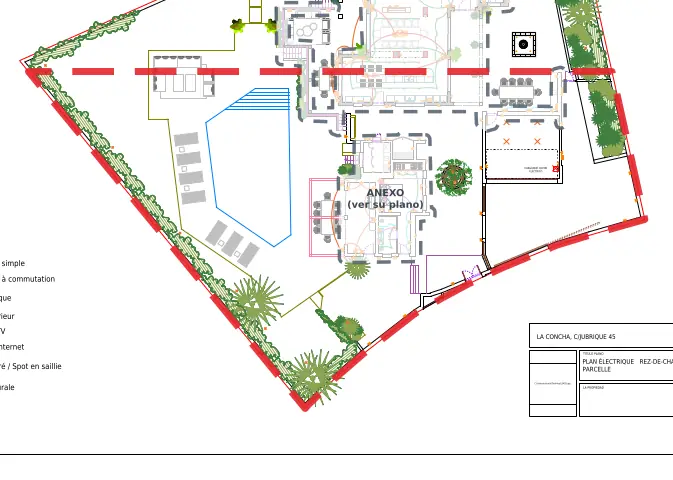
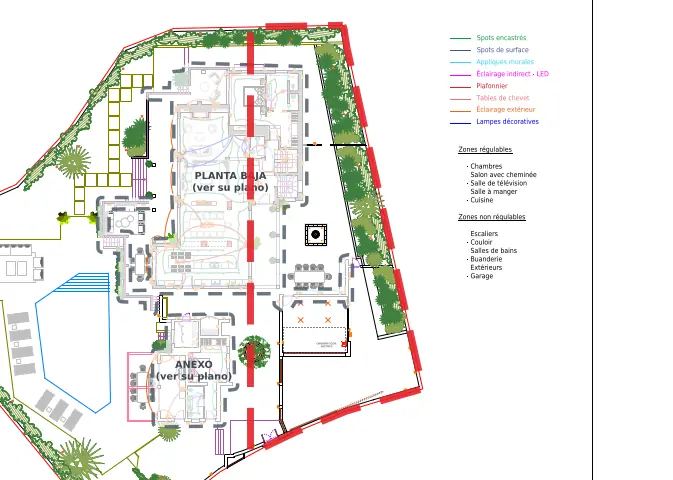
La Concha: exterior partido en vertical (oeste: jardín y piscina; este: garaje, zona de fuego y muros este)
Claude-Session: https://claude.ai/code/session_01Jc8wu4JaYkxdfA7jJdb3wN

diff --git a/la-concha/index.html b/la-concha/index.html
@@ -318,7 +318,7 @@ button.chk:hover{background:var(--hot)}
 </main>
 
 <script>
-const DATA={"cfg":{"kind":"electrica","title":"Visor de planos · La Concha","site":{"name":"La Concha","sub":"C/ Jubrique 45 · Instalación eléctrica"},"obraId":"recQNYGyQ1ju7TomO","progressUrl":"https://formularioiec-bff-iec-294739714316.europe-southwest1.run.app/avance?obra=recQNYGyQ1ju7TomO","writeUrl":"https://formularioiec-bff-iec-294739714316.europe-southwest1.run.app/avance","modo":"escritura","imgV":"20261104","labels":{"l2":"Zona","l2p":"Zonas","a2":"una zona","intro0":"Cada color es una planta. Las zonas reparten cada planta por superficie; el exterior va en dos zonas (norte y sur) y lo ya dibujado en planta baja y anexo se ve atenuado."},"alt0":"Plano general con las hojas de exterior, planta baja, planta alta, sótano y anexo","checklist":[{"id":"tubo","label":"Tubo"},{"id":"caja","label":"Cajas"},{"id":"cable","label":"Cableado"},{"id":"mecanismos","label":"Mecanismos"},{"id":"luminarias","label":"Luminarias"},{"id":"cuadro","label":"Cuadro eléctrico","soloEn":[]}],"checklistProvisional":false},"buildings":[{"id":"EXT","nm":"Exterior","tipo":"EXT","col":2,"poly":[[132.1,432.2],[508.6,432.2],[508.6,165.9],[132.1,165.9]],"lab":[320.4,299.1],"img":"img/edif_EXT.webp"},{"id":"PB","nm":"Planta baja","tipo":"PB","col":1,"poly":[[674.0,322.9],[862.3,322.9],[862.3,189.8],[674.0,189.8]],"lab":[768.2,256.4],"img":"img/edif_PB.webp"},{"id":"PA","nm":"Planta alta","tipo":"PA","col":3,"poly":[[194.0,636.1],[382.2,636.1],[382.2,502.9],[194.0,502.9]],"lab":[288.1,569.5],"img":"img/edif_PA.webp"},{"id":"SOT","nm":"Sótano","tipo":"SOT","col":5,"poly":[[193.6,809.5],[334.8,809.5],[334.8,709.6],[193.6,709.6]],"lab":[264.2,759.5],"img":"img/edif_SOT.webp"},{"id":"ANX","nm":"Anexo","tipo":"ANX","col":4,"poly":[[996.3,292.8],[1090.5,292.8],[1090.5,226.3],[996.3,226.3]],"lab":[1043.4,259.6],"img":"img/edif_ANX.webp"}],"tipos":{"EXT":{"cubs":[{"id":"1","img":"img/EXT_Z1.webp","poly":[[172.7,355.7],[377.4,265.8],[453.4,186.0],[530.1,74.3],[600.3,47.1],[839.0,42.7],[910.9,369.1],[183.9,369.1]],"lab":[527.0,210.9],"m2":496},{"id":"2","img":"img/EXT_Z2.webp","poly":[[665.2,668.3],[601.4,717.6],[565.1,748.9],[528.7,785.4],[183.9,369.1],[910.9,369.1],[951.9,552.0],[842.8,583.5],[773.1,612.1],[731.8,631.7]],"lab":[457.8,520.1],"m2":767}]},"PB":{"cubs":[{"id":"1","img":"img/PB_Z1.webp","poly":[[527.2,41.5],[531.4,20.2],[654.7,24.0],[654.7,199.4],[503.1,199.4],[503.1,167.7],[497.4,163.4],[497.4,102.5],[419.4,101.0],[413.8,89.7],[490.3,89.7],[491.7,44.3]],"lab":[576.1,132.9],"m2":35},{"id":"2","img":"img/PB_Z2.webp","poly":[[654.7,24.0],[856.0,30.2],[856.0,167.7],[654.7,167.7]],"lab":[755.3,98.9],"m2":35},{"id":"3","img":"img/PB_Z3.webp","poly":[[654.7,384.8],[497.5,384.8],[503.1,377.4],[503.1,289.6],[497.4,285.3],[497.4,259.8],[503.1,255.5],[503.1,199.4],[654.7,199.4]],"lab":[578.9,333.5],"m2":35},{"id":"4","img":"img/PB_Z4.webp","poly":[[654.7,308.4],[654.7,167.7],[856.0,167.7],[856.0,308.4]],"lab":[755.3,238.1],"m2":35},{"id":"5","img":"img/PB_Z5.webp","poly":[[792.2,401.5],[792.2,472.4],[654.7,472.4],[654.7,308.4],[856.0,308.4],[856.0,395.9]],"lab":[755.3,352.1],"m2":35},{"id":"6","img":"img/PB_Z6.webp","poly":[[435.0,643.9],[430.8,703.5],[422.3,700.6],[420.9,669.5],[345.7,666.6],[347.2,532.0],[289.1,527.7],[287.6,397.3],[422.3,397.3],[419.4,405.8],[297.6,407.2],[297.6,488.0],[364.2,492.3],[357.1,496.5],[358.5,658.1],[428.0,656.7],[428.0,617.0],[435.0,612.8],[435.0,540.5],[428.0,536.2],[428.0,513.5],[496.0,510.7],[503.1,505.0],[497.5,384.8],[545.5,384.8],[545.5,643.9]],"lab":[490.3,576.6],"m2":35},{"id":"7","img":"img/PB_Z7.webp","poly":[[545.5,643.9],[545.5,384.8],[654.7,384.8],[654.7,643.9]],"lab":[600.1,514.4],"m2":35},{"id":"8","img":"img/PB_Z8.webp","poly":[[792.2,652.4],[972.2,653.9],[973.6,560.3],[984.9,557.5],[984.9,685.0],[980.7,666.6],[829.0,666.6],[816.3,687.9],[800.7,692.1],[786.5,682.2],[785.1,643.9],[654.7,643.9],[654.7,472.4],[792.2,472.4]],"lab":[723.5,602.1],"m2":35}]},"PA":{"cubs":[{"id":"1","img":"img/PA_Z1.webp","poly":[[829.9,84.5],[829.9,199.9],[606.4,199.9],[606.4,70.7],[625.8,70.4],[630.1,80.3]],"lab":[718.2,142.2],"m2":33},{"id":"2","img":"img/PA_Z2.webp","poly":[[469.9,318.6],[469.9,180.9],[535.1,176.7],[539.4,71.8],[606.4,70.7],[606.4,318.6]],"lab":[538.2,249.8],"m2":33},{"id":"3","img":"img/PA_Z3.webp","poly":[[829.9,318.6],[606.4,318.6],[606.4,199.9],[829.9,199.9]],"lab":[718.2,259.3],"m2":33},{"id":"4","img":"img/PA_Z4.webp","poly":[[535.6,508.5],[535.1,465.8],[469.9,460.2],[469.9,318.6],[625.3,318.6],[625.3,508.5]],"lab":[547.6,389.4],"m2":33},{"id":"5","img":"img/PA_Z5.webp","poly":[[761.9,461.6],[686.8,463.0],[686.2,508.5],[625.3,508.5],[625.3,318.6],[829.9,318.6],[829.9,373.7],[764.7,379.4]],"lab":[694.3,420.5],"m2":33},{"id":"6","img":"img/PA_Z6.webp","poly":[[683.9,689.8],[536.5,687.0],[542.2,607.6],[536.5,603.3],[535.6,508.5],[686.2,508.5]],"lab":[610.8,555.9],"m2":33}]},"SOT":{"cubs":[{"id":"1","img":"img/SOT_Z1.webp","poly":[[572.1,351.8],[572.1,47.3],[733.4,47.3],[733.4,351.8]],"lab":[652.7,199.5],"m2":34},{"id":"2","img":"img/SOT_Z2.webp","poly":[[935.5,192.8],[1003.5,192.8],[1003.5,334.5],[960.0,330.7],[958.1,223.0],[833.4,224.9],[832.6,351.8],[733.4,351.8],[733.4,47.3],[837.2,47.3],[842.9,109.6],[931.7,113.4]],"lab":[868.4,207.9],"m2":34},{"id":"3","img":"img/SOT_Z3.webp","poly":[[206.2,334.5],[281.8,328.8],[281.8,253.3],[442.3,253.3],[448.0,213.6],[499.0,213.6],[504.7,47.3],[572.1,47.3],[572.1,358.0],[207.0,358.0]],"lab":[537.0,130.4],"m2":34},{"id":"4","img":"img/SOT_Z4.webp","poly":[[266.6,391.2],[208.1,391.2],[207.0,358.0],[572.1,358.0],[572.1,518.4],[281.8,518.4],[281.8,398.8]],"lab":[426.9,458.6],"m2":34},{"id":"5","img":"img/SOT_Z5.webp","poly":[[831.5,515.9],[652.1,519.7],[646.4,565.0],[584.0,565.0],[582.2,774.8],[572.1,775.1],[572.1,351.8],[832.6,351.8]],"lab":[610.7,542.4],"m2":34},{"id":"6","img":"img/SOT_Z6.webp","poly":[[459.4,744.5],[404.6,740.8],[404.6,623.6],[383.8,617.9],[383.8,576.4],[281.8,570.7],[281.8,518.4],[572.1,518.4],[572.1,775.1],[465.0,778.6]],"lab":[488.3,682.2],"m2":34}]},"ANX":{"cubs":[{"id":"1","img":"img/ANX_Z1.webp","poly":[[877.6,439.7],[460.8,439.7],[459.3,336.9],[535.9,328.4],[538.7,147.0],[748.5,141.3],[757.0,127.1],[768.3,141.3],[870.4,141.3]],"lab":[705.0,237.7],"m2":34},{"id":"2","img":"img/ANX_Z2.webp","poly":[[878.9,492.8],[895.9,501.3],[895.9,518.4],[825.0,526.9],[825.0,722.5],[465.0,728.1],[460.8,439.7],[877.6,439.7]],"lab":[644.3,624.7],"m2":34}]}}};
+const DATA={"cfg":{"kind":"electrica","title":"Visor de planos · La Concha","site":{"name":"La Concha","sub":"C/ Jubrique 45 · Instalación eléctrica"},"obraId":"recQNYGyQ1ju7TomO","progressUrl":"https://formularioiec-bff-iec-294739714316.europe-southwest1.run.app/avance?obra=recQNYGyQ1ju7TomO","writeUrl":"https://formularioiec-bff-iec-294739714316.europe-southwest1.run.app/avance","modo":"escritura","imgV":"20261104b","labels":{"l2":"Zona","l2p":"Zonas","a2":"una zona","intro0":"Cada color es una planta. Las zonas reparten cada planta por superficie; el exterior va en dos zonas (oeste y este) y lo ya dibujado en planta baja y anexo se ve atenuado."},"alt0":"Plano general con las hojas de exterior, planta baja, planta alta, sótano y anexo","checklist":[{"id":"tubo","label":"Tubo"},{"id":"caja","label":"Cajas"},{"id":"cable","label":"Cableado"},{"id":"mecanismos","label":"Mecanismos"},{"id":"luminarias","label":"Luminarias"},{"id":"cuadro","label":"Cuadro eléctrico","soloEn":[]}],"checklistProvisional":false},"buildings":[{"id":"EXT","nm":"Exterior","tipo":"EXT","col":2,"poly":[[132.1,432.2],[508.6,432.2],[508.6,165.9],[132.1,165.9]],"lab":[320.4,299.1],"img":"img/edif_EXT.webp"},{"id":"PB","nm":"Planta baja","tipo":"PB","col":1,"poly":[[674.0,322.9],[862.3,322.9],[862.3,189.8],[674.0,189.8]],"lab":[768.2,256.4],"img":"img/edif_PB.webp"},{"id":"PA","nm":"Planta alta","tipo":"PA","col":3,"poly":[[194.0,636.1],[382.2,636.1],[382.2,502.9],[194.0,502.9]],"lab":[288.1,569.5],"img":"img/edif_PA.webp"},{"id":"SOT","nm":"Sótano","tipo":"SOT","col":5,"poly":[[193.6,809.5],[334.8,809.5],[334.8,709.6],[193.6,709.6]],"lab":[264.2,759.5],"img":"img/edif_SOT.webp"},{"id":"ANX","nm":"Anexo","tipo":"ANX","col":4,"poly":[[996.3,292.8],[1090.5,292.8],[1090.5,226.3],[996.3,226.3]],"lab":[1043.4,259.6],"img":"img/edif_ANX.webp"}],"tipos":{"EXT":{"cubs":[{"id":"1","img":"img/EXT_Z1.webp","poly":[[665.2,668.3],[601.4,717.6],[565.1,748.9],[528.7,785.4],[172.7,355.7],[377.4,265.8],[453.4,186.0],[530.1,74.3],[600.3,47.1],[708.6,45.1],[708.6,644.1]],"lab":[378.0,405.0],"m2":860},{"id":"2","img":"img/EXT_Z2.webp","poly":[[839.0,42.7],[951.9,552.0],[842.8,583.5],[773.1,612.1],[708.6,644.1],[708.6,45.1]],"lab":[794.3,515.1],"m2":404}]},"PB":{"cubs":[{"id":"1","img":"img/PB_Z1.webp","poly":[[527.2,41.5],[531.4,20.2],[654.7,24.0],[654.7,199.4],[503.1,199.4],[503.1,167.7],[497.4,163.4],[497.4,102.5],[419.4,101.0],[413.8,89.7],[490.3,89.7],[491.7,44.3]],"lab":[576.1,132.9],"m2":35},{"id":"2","img":"img/PB_Z2.webp","poly":[[654.7,24.0],[856.0,30.2],[856.0,167.7],[654.7,167.7]],"lab":[755.3,98.9],"m2":35},{"id":"3","img":"img/PB_Z3.webp","poly":[[654.7,384.8],[497.5,384.8],[503.1,377.4],[503.1,289.6],[497.4,285.3],[497.4,259.8],[503.1,255.5],[503.1,199.4],[654.7,199.4]],"lab":[578.9,333.5],"m2":35},{"id":"4","img":"img/PB_Z4.webp","poly":[[654.7,308.4],[654.7,167.7],[856.0,167.7],[856.0,308.4]],"lab":[755.3,238.1],"m2":35},{"id":"5","img":"img/PB_Z5.webp","poly":[[792.2,401.5],[792.2,472.4],[654.7,472.4],[654.7,308.4],[856.0,308.4],[856.0,395.9]],"lab":[755.3,352.1],"m2":35},{"id":"6","img":"img/PB_Z6.webp","poly":[[435.0,643.9],[430.8,703.5],[422.3,700.6],[420.9,669.5],[345.7,666.6],[347.2,532.0],[289.1,527.7],[287.6,397.3],[422.3,397.3],[419.4,405.8],[297.6,407.2],[297.6,488.0],[364.2,492.3],[357.1,496.5],[358.5,658.1],[428.0,656.7],[428.0,617.0],[435.0,612.8],[435.0,540.5],[428.0,536.2],[428.0,513.5],[496.0,510.7],[503.1,505.0],[497.5,384.8],[545.5,384.8],[545.5,643.9]],"lab":[490.3,576.6],"m2":35},{"id":"7","img":"img/PB_Z7.webp","poly":[[545.5,643.9],[545.5,384.8],[654.7,384.8],[654.7,643.9]],"lab":[600.1,514.4],"m2":35},{"id":"8","img":"img/PB_Z8.webp","poly":[[792.2,652.4],[972.2,653.9],[973.6,560.3],[984.9,557.5],[984.9,685.0],[980.7,666.6],[829.0,666.6],[816.3,687.9],[800.7,692.1],[786.5,682.2],[785.1,643.9],[654.7,643.9],[654.7,472.4],[792.2,472.4]],"lab":[723.5,602.1],"m2":35}]},"PA":{"cubs":[{"id":"1","img":"img/PA_Z1.webp","poly":[[829.9,84.5],[829.9,199.9],[606.4,199.9],[606.4,70.7],[625.8,70.4],[630.1,80.3]],"lab":[718.2,142.2],"m2":33},{"id":"2","img":"img/PA_Z2.webp","poly":[[469.9,318.6],[469.9,180.9],[535.1,176.7],[539.4,71.8],[606.4,70.7],[606.4,318.6]],"lab":[538.2,249.8],"m2":33},{"id":"3","img":"img/PA_Z3.webp","poly":[[829.9,318.6],[606.4,318.6],[606.4,199.9],[829.9,199.9]],"lab":[718.2,259.3],"m2":33},{"id":"4","img":"img/PA_Z4.webp","poly":[[535.6,508.5],[535.1,465.8],[469.9,460.2],[469.9,318.6],[625.3,318.6],[625.3,508.5]],"lab":[547.6,389.4],"m2":33},{"id":"5","img":"img/PA_Z5.webp","poly":[[761.9,461.6],[686.8,463.0],[686.2,508.5],[625.3,508.5],[625.3,318.6],[829.9,318.6],[829.9,373.7],[764.7,379.4]],"lab":[694.3,420.5],"m2":33},{"id":"6","img":"img/PA_Z6.webp","poly":[[683.9,689.8],[536.5,687.0],[542.2,607.6],[536.5,603.3],[535.6,508.5],[686.2,508.5]],"lab":[610.8,555.9],"m2":33}]},"SOT":{"cubs":[{"id":"1","img":"img/SOT_Z1.webp","poly":[[572.1,351.8],[572.1,47.3],[733.4,47.3],[733.4,351.8]],"lab":[652.7,199.5],"m2":34},{"id":"2","img":"img/SOT_Z2.webp","poly":[[935.5,192.8],[1003.5,192.8],[1003.5,334.5],[960.0,330.7],[958.1,223.0],[833.4,224.9],[832.6,351.8],[733.4,351.8],[733.4,47.3],[837.2,47.3],[842.9,109.6],[931.7,113.4]],"lab":[868.4,207.9],"m2":34},{"id":"3","img":"img/SOT_Z3.webp","poly":[[206.2,334.5],[281.8,328.8],[281.8,253.3],[442.3,253.3],[448.0,213.6],[499.0,213.6],[504.7,47.3],[572.1,47.3],[572.1,358.0],[207.0,358.0]],"lab":[537.0,130.4],"m2":34},{"id":"4","img":"img/SOT_Z4.webp","poly":[[266.6,391.2],[208.1,391.2],[207.0,358.0],[572.1,358.0],[572.1,518.4],[281.8,518.4],[281.8,398.8]],"lab":[426.9,458.6],"m2":34},{"id":"5","img":"img/SOT_Z5.webp","poly":[[831.5,515.9],[652.1,519.7],[646.4,565.0],[584.0,565.0],[582.2,774.8],[572.1,775.1],[572.1,351.8],[832.6,351.8]],"lab":[610.7,542.4],"m2":34},{"id":"6","img":"img/SOT_Z6.webp","poly":[[459.4,744.5],[404.6,740.8],[404.6,623.6],[383.8,617.9],[383.8,576.4],[281.8,570.7],[281.8,518.4],[572.1,518.4],[572.1,775.1],[465.0,778.6]],"lab":[488.3,682.2],"m2":34}]},"ANX":{"cubs":[{"id":"1","img":"img/ANX_Z1.webp","poly":[[877.6,439.7],[460.8,439.7],[459.3,336.9],[535.9,328.4],[538.7,147.0],[748.5,141.3],[757.0,127.1],[768.3,141.3],[870.4,141.3]],"lab":[705.0,237.7],"m2":34},{"id":"2","img":"img/ANX_Z2.webp","poly":[[878.9,492.8],[895.9,501.3],[895.9,518.4],[825.0,526.9],[825.0,722.5],[465.0,728.1],[460.8,439.7],[877.6,439.7]],"lab":[644.3,624.7],"m2":34}]}}};
 (()=>{
 addEventListener('error',()=>{const l=document.getElementById('loading'); if(l&&l.isConnected) l.textContent='Este navegador no puede abrir el visor. Actualízalo o prueba con Chrome o Safari recientes.';});
 const SW=1191, SH=842, NS='http://www.w3.org/2000/svg';
